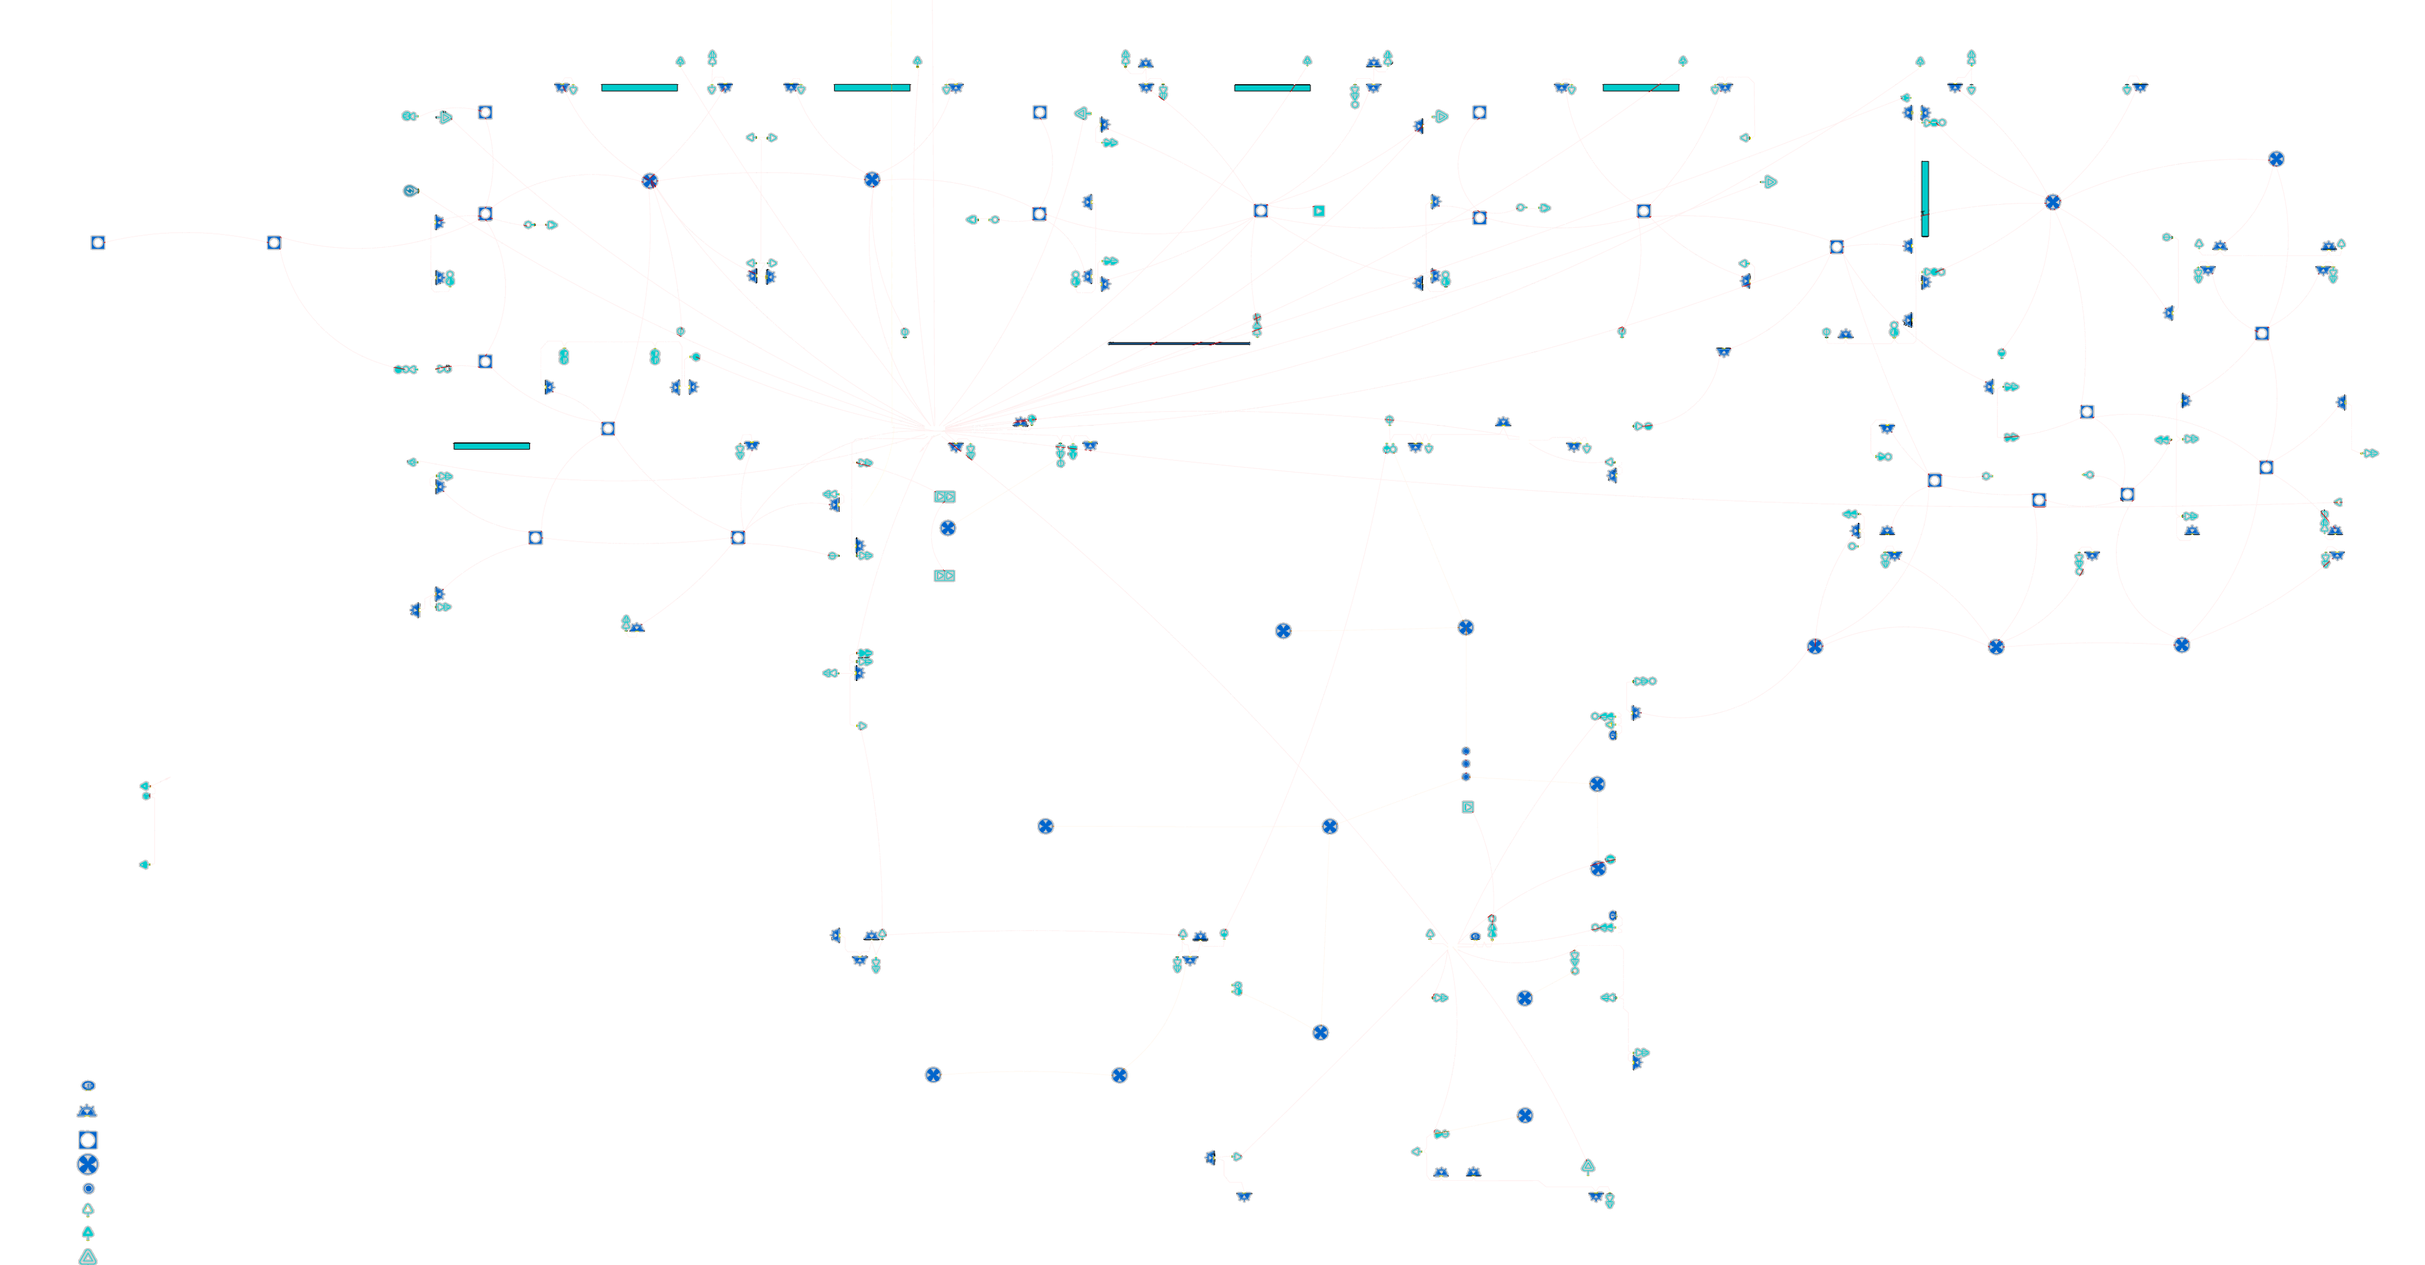
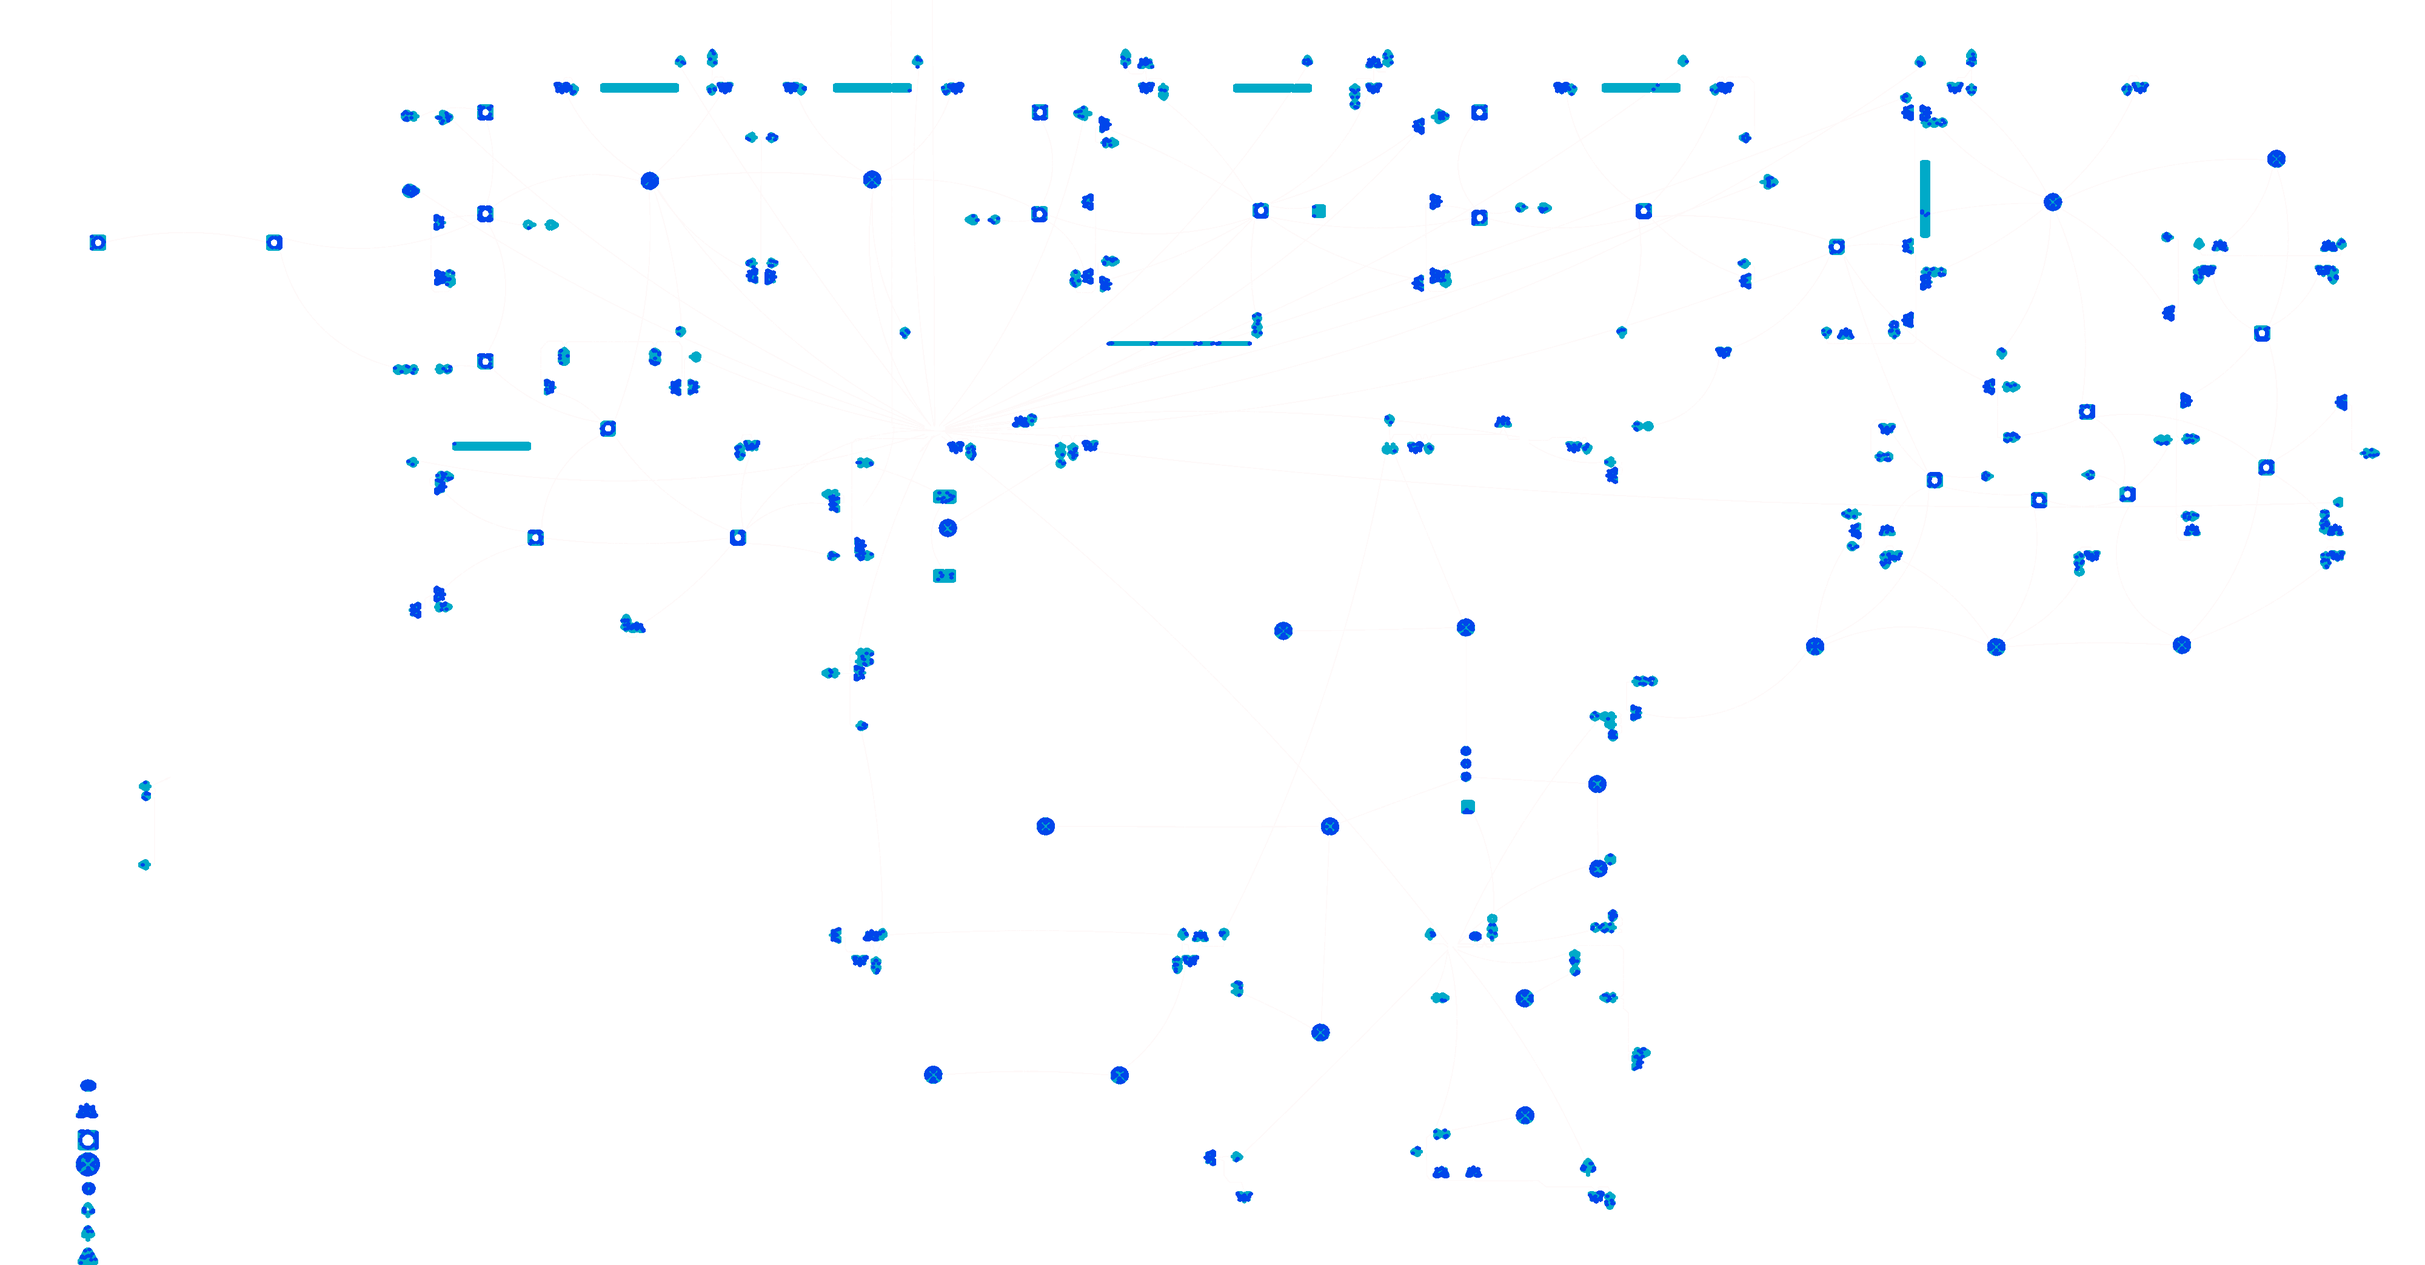
Landscape layout, stronger blue symbols, remove move/type buttons
Claude-Session: https://claude.ai/code/session_0135ByMvkYzWiKpt7nDS3rso

diff --git a/index.html b/index.html
@@ -10,24 +10,26 @@ html,body{margin:0;height:100%;overflow:hidden;font-family:system-ui,sans-serif;
 #tabs button{flex:1;padding:9px;font-size:15px;font-weight:600}
 button{font:inherit;font-size:13px;padding:6px 10px;border:1px solid #bbb;background:#fff;border-radius:8px;color:#222}
 button.on{background:#222;color:#fff;border-color:#222}
-#chips{display:flex;gap:6px;padding:6px 8px;overflow-x:auto;background:#fff;border-bottom:1px solid #eee;-webkit-overflow-scrolling:touch;flex:none}
-.chip{flex:none;min-width:38px;height:38px;border-radius:19px;border:3px solid #F59E0B;background:#fff;font-weight:700;font-size:15px;padding:0}
+#chips{display:flex;gap:4px;padding:4px 6px;background:#fff;border-bottom:1px solid #eee;flex:none}
+.chip{flex:1 1 0;min-width:0;height:34px;border-radius:17px;border:3px solid #F59E0B;background:#fff;font-weight:700;font-size:14px;padding:0}.chip.pl{flex:2.2 1 0}
 .chip.n{border-color:#1D9E75}.chip.sel{background:#F59E0B;color:#111}.chip.n.sel{background:#1D9E75;color:#fff}.chip.un{opacity:.35;border-style:dashed}.chip.pl{border-color:#378ADD}.chip.pl.sel{background:#378ADD;color:#fff}
 #legend{display:flex;gap:14px;align-items:center;padding:4px 10px;font-size:12px;background:#fff;border-bottom:1px solid #ddd;flex:none;flex-wrap:wrap}
 .dot{display:inline-block;width:14px;height:14px;border-radius:7px;border:3px solid;vertical-align:-3px;margin-right:4px}
 #tools{display:none;padding:6px 8px;background:#fffbe8;border-bottom:1px solid #e8e0b0;flex:none;flex-wrap:wrap;gap:6px}
-body.palco #pal{display:block!important}body.palco.sel #panel{height:24dvh}
-#stage{position:relative;flex:1;min-height:120px;background:#fff;touch-action:none;overflow:hidden}
+body.palco #pal{display:block!important}body.palco.sel #panel{width:30%}
+#main{flex:1;display:flex;min-height:0}
+body.rot #app{position:fixed;top:0;left:0;width:100dvh;height:100dvw;transform-origin:0 0;transform:translateX(100dvw) rotate(90deg)}
+#stage{position:relative;flex:1;min-width:0;background:#fff;touch-action:none;overflow:hidden}
 #stage svg{position:absolute;inset:0;width:100%;height:100%;display:block}
 #zb{position:absolute;right:8px;bottom:8px;display:flex;flex-direction:column;gap:6px}
 #zb button{width:42px;height:42px;font-size:22px;padding:0}
-#panel{flex:none;height:0;overflow:auto;background:#f4f2ee;border-top:2px solid #ccc}
-body.sel #panel{height:50dvh}
-#panel .in{padding:8px 10px}
+#panel{flex:none;width:0;overflow:hidden;background:#f4f2ee;border-left:2px solid #ccc}
+body.sel #panel{width:44%}
+#panel .in{padding:6px 8px;height:100%;display:flex;flex-direction:column;min-height:0}
 #panel h3{margin:0 0 4px;font-size:16px}
-#photo{width:100%;max-height:30dvh;object-fit:contain;background:#000;border-radius:6px;display:block}
-.nophoto{padding:14px;text-align:center;color:#666;background:#e8e4dc;border-radius:6px;font-size:14px}
-textarea{width:100%;font:14px system-ui;margin-top:6px;user-select:text;-webkit-user-select:text}
+#photo{width:100%;flex:1;min-height:0;object-fit:contain;background:#000;border-radius:6px;display:block}
+.nophoto{flex:1;display:flex;align-items:center;justify-content:center;padding:14px;text-align:center;color:#666;background:#e8e4dc;border-radius:6px;font-size:14px}
+textarea{width:100%;font:14px system-ui;margin-top:6px;flex:none;height:56px;user-select:text;-webkit-user-select:text}
 #wa{display:block;margin-top:6px;padding:10px;border-radius:8px;background:#25D366;color:#fff;text-align:center;font-weight:600;text-decoration:none;font-size:14px}
 #big{position:fixed;inset:0;background:#000e;display:none;z-index:20}#big img{width:100%;height:100%;object-fit:contain}
 
@@ -36,8 +38,8 @@ textarea{width:100%;font:14px system-ui;margin-top:6px;user-select:text;-webkit-
 </style></head><body>
 <div id="app">
 <div id="chips"></div>
-<div id="stage"><iframe id="pal" src="palco/view.html" style="display:none;position:absolute;inset:0;width:100%;height:100%;border:0;background:#fff;z-index:2"></iframe><svg id="s"><g id="vp"><image href="walls.png" width="3200" height="1670"/><image id="el" href="elec.png" width="3200" height="1670"/><g id="mk"></g></g></svg></div>
-<div id="panel"><div class="in" id="pin"></div></div>
+<div id="main"><div id="stage"><iframe id="pal" src="palco/view.html" style="display:none;position:absolute;inset:0;width:100%;height:100%;border:0;background:#fff;z-index:2"></iframe><svg id="s"><g id="vp"><image href="walls.png" width="3200" height="1670"/><image id="el" href="elec.png" width="3200" height="1670"/><g id="mk"></g></g></svg></div>
+<div id="panel"><div class="in" id="pin"></div></div></div>
 </div>
 <div id="big"><img></div>
 <script>
@@ -53,17 +55,17 @@ added.forEach(a=>M.push(a));
 M.forEach(o=>{const s=st[o.id];if(s){o.x=s[0];o.y=s[1];if(s[2])o.k=s[2];if(s[3])o.n=s[3];o.un=0}});
 M.forEach(o=>{if(o.x<200&&!o.ph&&!st[o.id])o.un=1});
 function save(){M.forEach(o=>{st[o.id]=[o.x,o.y,o.k,o.n]});wr(KEY,st);wr(KEY+"-add",M.filter(o=>o.id[0]=="u").map(o=>({id:o.id,ph:0,x:o.x,y:o.y,k:o.k,n:o.n})))}
-const svg=$("s"),vp=$("vp"),stage=$("stage");
+const S=()=>({width:stage.offsetWidth,height:stage.offsetHeight});const svg=$("s"),vp=$("vp"),stage=$("stage");
 let V={k:.2,tx:0,ty:0},mode="v",sel=null,moveId=null;
 const el=(t,a,p)=>{const e=document.createElementNS(NS,t);for(const k in a)e.setAttribute(k,a[k]);p&&p.appendChild(e);return e};
 function apply(){vp.setAttribute("transform",`translate(${V.tx},${V.ty}) scale(${V.k})`);M.forEach(o=>{if(o.g)o.g.setAttribute("transform",`translate(${o.x},${o.y}) scale(${1/V.k})`)})}
-function fitK(){const r=stage.getBoundingClientRect();return Math.min(r.width/3200,r.height/1670)}
-function fit(){const r=stage.getBoundingClientRect();V.k=fitK();V.tx=(r.width-3200*V.k)/2;V.ty=(r.height-1670*V.k)/2;apply()}
-function clamp(){const r=stage.getBoundingClientRect(),f=fitK();V.k=Math.max(f*.9,Math.min(V.k,2.2));const w=3200*V.k,h=1670*V.k;
+function fitK(){const r=S();return Math.min(r.width/3200,r.height/1670)}
+function fit(){const r=S();V.k=fitK();V.tx=(r.width-3200*V.k)/2;V.ty=(r.height-1670*V.k)/2;apply()}
+function clamp(){const r=S(),f=fitK();V.k=Math.max(f*.9,Math.min(V.k,2.2));const w=3200*V.k,h=1670*V.k;
  V.tx=w<r.width?(r.width-w)/2:Math.min(60,Math.max(r.width-w-60,V.tx));V.ty=h<r.height?(r.height-h)/2:Math.min(60,Math.max(r.height-h-60,V.ty))}
 function zoomAt(px,py,nk){const o=V.k;V.k=nk;V.tx=px-(px-V.tx)*nk/o;V.ty=py-(py-V.ty)*nk/o;clamp();apply()}
 let anim=0;
-function flyTo(x,y,k){cancelAnimationFrame(anim);const r=stage.getBoundingClientRect(),a={...V},b={k,tx:r.width/2-x*k,ty:r.height/2-y*k};let t=0;
+function flyTo(x,y,k){cancelAnimationFrame(anim);const r=S(),a={...V},b={k,tx:r.width/2-x*k,ty:r.height/2-y*k};let t=0;
  const f=()=>{t+=.08;const e=t>=1?1:1-Math.pow(1-t,3);V.k=a.k+(b.k-a.k)*e;V.tx=a.tx+(b.tx-a.tx)*e;V.ty=a.ty+(b.ty-a.ty)*e;apply();if(t<1)anim=requestAnimationFrame(f);else{clamp();apply()}};f()}
 function draw(o){if(o.g)o.g.remove();if(o.un&&o.id!=sel){o.g=null;return}
  const g=el("g",{class:"m"},$("mk"));o.g=g;const c=o.k=="n"?"#1D9E75":"#F59E0B",on=o.id==sel;
@@ -74,27 +76,24 @@ function drawAll(){$("mk").innerHTML="";M.forEach(draw);apply();chips()}
 function chips(){const c=$("chips");c.innerHTML="";[...M].sort((a,b)=>a.n-b.n).forEach(o=>{const b=document.createElement("button");b.className="chip "+o.k+(o.id==sel?" sel":"")+(o.un?" un":"");b.textContent=o.n;b.onclick=()=>pick(o.id,true);c.appendChild(b);if(o.id==sel)setTimeout(()=>b.scrollIntoView({inline:"center",block:"nearest",behavior:"smooth"}),0)});
  const pb=document.createElement("button");pb.className="chip pl"+(sel=="palco"?" sel":"");pb.textContent="Palco";pb.style.padding="0 14px";pb.onclick=()=>pick("palco");c.appendChild(pb);if(sel=="palco")setTimeout(()=>pb.scrollIntoView({inline:"center",block:"nearest",behavior:"smooth"}),0);
  const ab=document.createElement("button");ab.className="chip";ab.textContent="＋";ab.style.cssText="border-color:#888;font-size:20px";ab.onclick=addPoint;c.appendChild(ab)}
-function pick(id,fly){if(id=="palco"){sel="palco";moveId=null;document.body.classList.add("sel","palco");drawAll();palPanel();return}document.body.classList.remove("palco");sel=id;const o=M.find(a=>a.id==id);if(o.un){const r=stage.getBoundingClientRect();o.x=Math.round((r.width/2-V.tx)/V.k);o.y=Math.round((r.height/2-V.ty)/V.k);o.un=0;moveId=o.id;fly=false;save()}else if(moveId!=id)moveId=null;document.body.classList.add("sel");drawAll();panel(o);
- setTimeout(()=>{if(fly){const r=stage.getBoundingClientRect();flyTo(o.x,o.y,Math.max(r.width/900,fitK()*2.5))}},60)}
+function pick(id,fly){if(id=="palco"){sel="palco";moveId=null;document.body.classList.add("sel","palco");drawAll();palPanel();return}document.body.classList.remove("palco");sel=id;const o=M.find(a=>a.id==id);if(o.un){const r=S();o.x=Math.round((r.width/2-V.tx)/V.k);o.y=Math.round((r.height/2-V.ty)/V.k);o.un=0;moveId=o.id;fly=false;save()}else if(moveId!=id)moveId=null;document.body.classList.add("sel");drawAll();panel(o);
+ setTimeout(()=>{if(fly){const r=S();flyTo(o.x,o.y,Math.max(r.width/900,fitK()*2.5))}},60)}
 function close(){sel=null;moveId=null;document.body.classList.remove("sel","palco");drawAll();setTimeout(()=>{fit()},50)}
-function palPanel(){const p=$("pin");p.innerHTML=`<h3>Palco <button id="cl" style="float:right;padding:2px 10px">✕</button></h3><textarea id="nt" rows="2" placeholder="Observação sobre o palco"></textarea><a id="wa" target="_blank" rel="noopener">Enviar observação por WhatsApp</a>`;
+function palPanel(){const p=$("pin");p.innerHTML=`<h3 style="margin:0 0 4px;flex:none">Palco <button id="cl" style="float:right;padding:2px 10px">✕</button></h3><textarea id="nt" style="flex:1;height:auto" placeholder="Observação sobre o palco"></textarea><a id="wa" target="_blank" rel="noopener" style="flex:none">Enviar por WhatsApp</a>`;
  $("nt").value=nt.palco||"";const upd=()=>{$("wa").href="https://wa.me/447525005686?text="+encodeURIComponent("Projeto elétrico — PALCO"+(nt.palco?"\nObservação: "+nt.palco:"")+"\n(anexe a foto)")};upd();$("nt").oninput=e=>{nt.palco=e.target.value;wr(KEY+"-n",nt);upd()};$("cl").onclick=close}
 function panel(o){const p=$("pin");const tipo=o.k=="n"?"PONTO NOVO":"AJUSTAR POSIÇÃO";
- p.innerHTML=`<h3>Ponto ${o.n} · <span style="color:${o.k=="n"?"#1D9E75":"#B7770A"}">${tipo}</span> <button id="cl" style="float:right;padding:2px 10px">✕</button></h3>`+
+ p.innerHTML=`<h3 style="margin:0 0 4px;flex:none">Ponto ${o.n} · <span style="color:${o.k=="n"?"#1D9E75":"#B7770A"}">${tipo}</span> <button id="cl" style="float:right;padding:2px 10px">✕</button></h3>`+
  (o.ph?`<img id="photo" src="thumbs/t${String(o.ph).padStart(2,"0")}.jpg">`:`<div class="nophoto">Sem foto</div>`)+
- `<div style="margin:6px 0"><button id="mv" class="${moveId==o.id?"on":""}">✥ Mover</button> <button id="ba" class="${o.k=="a"?"on":""}">Ajustar</button> <button id="bn" class="${o.k=="n"?"on":""}">Novo</button> `+(o.id[0]=="u"?`<button id="bd" style="color:#b00">Excluir</button>`:"")+`</div>`+
- `<textarea id="nt" rows="2" placeholder="Observação (ex.: subir 20 cm, ao lado da janela)"></textarea><a id="wa" target="_blank" rel="noopener">Enviar observação por WhatsApp</a>`;
+ `<textarea id="nt" placeholder="Observação (ex.: subir 20 cm)"></textarea><a id="wa" target="_blank" rel="noopener" style="flex:none">Enviar por WhatsApp</a>`;
  $("nt").value=nt[o.id]||"";const upd=()=>{const t=`Projeto elétrico — Ponto ${o.n}${o.ph?" (foto "+o.ph+")":""}, ${o.k=="n"?"ponto NOVO":"AJUSTAR posição"}`+(nt[o.id]?`\nObservação: ${nt[o.id]}`:"")+`\n(anexe a foto)`;$("wa").href="https://wa.me/447525005686?text="+encodeURIComponent(t)};upd();
  $("nt").oninput=e=>{nt[o.id]=e.target.value;wr(KEY+"-n",nt);upd()};
  $("cl").onclick=close;
  if($("photo"))$("photo").onclick=function(){$("big").firstChild.src=this.src;$("big").style.display="block"};
- $("mv").onclick=()=>{moveId=moveId==o.id?null:o.id;panel(o)};
- $("ba").onclick=()=>{o.k="a";save();drawAll();panel(o)};$("bn").onclick=()=>{o.k="n";save();drawAll();panel(o)};
- if($("bd"))$("bd").onclick=()=>{M.splice(M.indexOf(o),1);delete st[o.id];wr(KEY,st);save();close()}}
+ }
 $("big").onclick=()=>$("big").style.display="none";
 // gestures
 const P=new Map();let gs=null,tapT=0;
-function sp(e){const r=stage.getBoundingClientRect();return{x:e.clientX-r.left,y:e.clientY-r.top}}
+function sp(e){const r=stage.getBoundingClientRect();if(document.body.classList.contains("rot"))return{x:e.clientY-r.top,y:r.right-e.clientX};return{x:e.clientX-r.left,y:e.clientY-r.top}}
 stage.addEventListener("pointerdown",e=>{if(e.target.closest("#zb"))return;stage.setPointerCapture(e.pointerId);P.set(e.pointerId,{...sp(e),sx:e.clientX,sy:e.clientY,t:e.target.closest(".m")});cancelAnimationFrame(anim);
  if(P.size==2){const [a,b]=[...P.values()];gs={d:Math.hypot(a.x-b.x,a.y-b.y),k:V.k,cx:(a.x+b.x)/2,cy:(a.y+b.y)/2,tx:V.tx,ty:V.ty,pinch:1}}
  else{const p=P.get(e.pointerId);gs={tx:V.tx,ty:V.ty,x:p.x,y:p.y,drag:p.t&&p.t.dataset.id==moveId?M.find(o=>o.id==p.t.dataset.id):null,moved:0}}});
@@ -110,7 +109,8 @@ function up(e){const p=P.get(e.pointerId);P.delete(e.pointerId);if(!gs)return;
  if(P.size==0)gs=null;else if(P.size==1){const q=[...P.values()][0];gs={tx:V.tx,ty:V.ty,x:q.x,y:q.y,drag:null,moved:99}}}
 stage.addEventListener("pointerup",up);stage.addEventListener("pointercancel",up);
 stage.addEventListener("wheel",e=>{e.preventDefault();const c=sp(e);zoomAt(c.x,c.y,V.k*(e.deltaY<0?1.2:1/1.2))},{passive:false});
-function addPoint(){const r=stage.getBoundingClientRect();const n=Math.max(0,...M.map(o=>o.n))+1;const o={id:"u"+Date.now(),ph:0,k:"n",n,x:Math.round((r.width/2-V.tx)/V.k),y:Math.round((r.height/2-V.ty)/V.k)};M.push(o);moveId=o.id;save();pick(o.id,false)}
-addEventListener("resize",()=>{clamp();apply()});
+function addPoint(){const r=S();const n=Math.max(0,...M.map(o=>o.n))+1;const o={id:"u"+Date.now(),ph:0,k:"n",n,x:Math.round((r.width/2-V.tx)/V.k),y:Math.round((r.height/2-V.ty)/V.k)};M.push(o);moveId=o.id;save();pick(o.id,false)}
+function ori(){document.body.classList.toggle("rot",innerHeight>innerWidth);setTimeout(()=>{fit()},80)}
+addEventListener("resize",ori);ori();
 drawAll();setTimeout(fit,50);
 </script></body></html>

diff --git a/palco/view.html b/palco/view.html
@@ -27,9 +27,12 @@ svg.nolbl .lbl{display:none}svg.nolet .let{display:none}
 .notes{margin-top:14px;font-size:14px}.notes h2{font-size:15px;font-weight:500;margin:0 0 4px}.notes ul{margin:0;padding-left:20px}.notes li{margin:3px 0}
 </style>
 <style>body{padding:0!important;overflow:hidden}h1,p.sub,.bar,textarea,.legend,.notes,#msg{display:none!important}
-.scroll{border:0!important;border-radius:0!important;max-height:none!important;height:100dvh;overflow:auto;-webkit-overflow-scrolling:touch}
-svg{width:170%!important;height:auto}.node{pointer-events:none!important}</style>
-<script>addEventListener("load",()=>{const s=document.getElementById("scroll");s.scrollLeft=(s.scrollWidth-s.clientWidth)/2;s.scrollTop=(s.scrollHeight-s.clientHeight)/2})</script>
+.scroll{border:0!important;border-radius:0!important;max-height:none!important;height:100vh;overflow:hidden;touch-action:none}
+svg{width:150%!important;height:auto;max-width:none}.node{pointer-events:none!important}</style>
+<script>addEventListener("load",()=>{const s=document.getElementById("scroll");s.scrollLeft=(s.scrollWidth-s.clientWidth)/2;s.scrollTop=(s.scrollHeight-s.clientHeight)/2;
+let d=null;s.addEventListener("pointerdown",e=>{d={x:e.clientX,y:e.clientY,l:s.scrollLeft,t:s.scrollTop};s.setPointerCapture(e.pointerId)});
+s.addEventListener("pointermove",e=>{if(!d)return;s.scrollLeft=d.l-(e.clientX-d.x);s.scrollTop=d.t-(e.clientY-d.y)});
+const u=()=>d=null;s.addEventListener("pointerup",u);s.addEventListener("pointercancel",u)})</script>
 </head>
 <body>
 <h1>Planta de eletrodutos do palco (som e energia)</h1>
